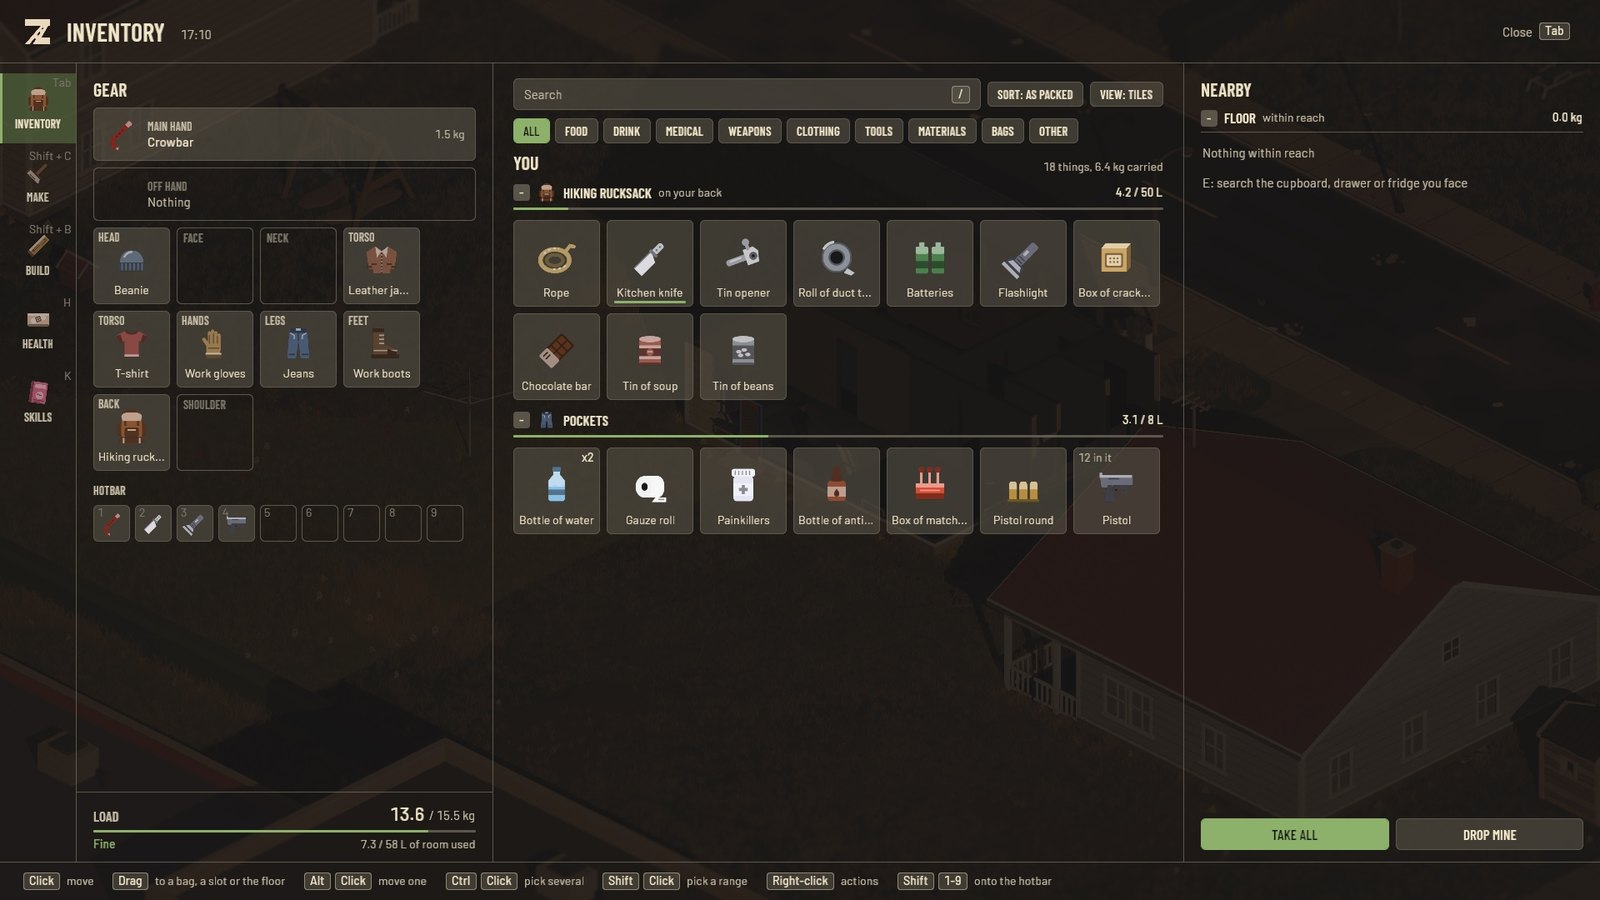
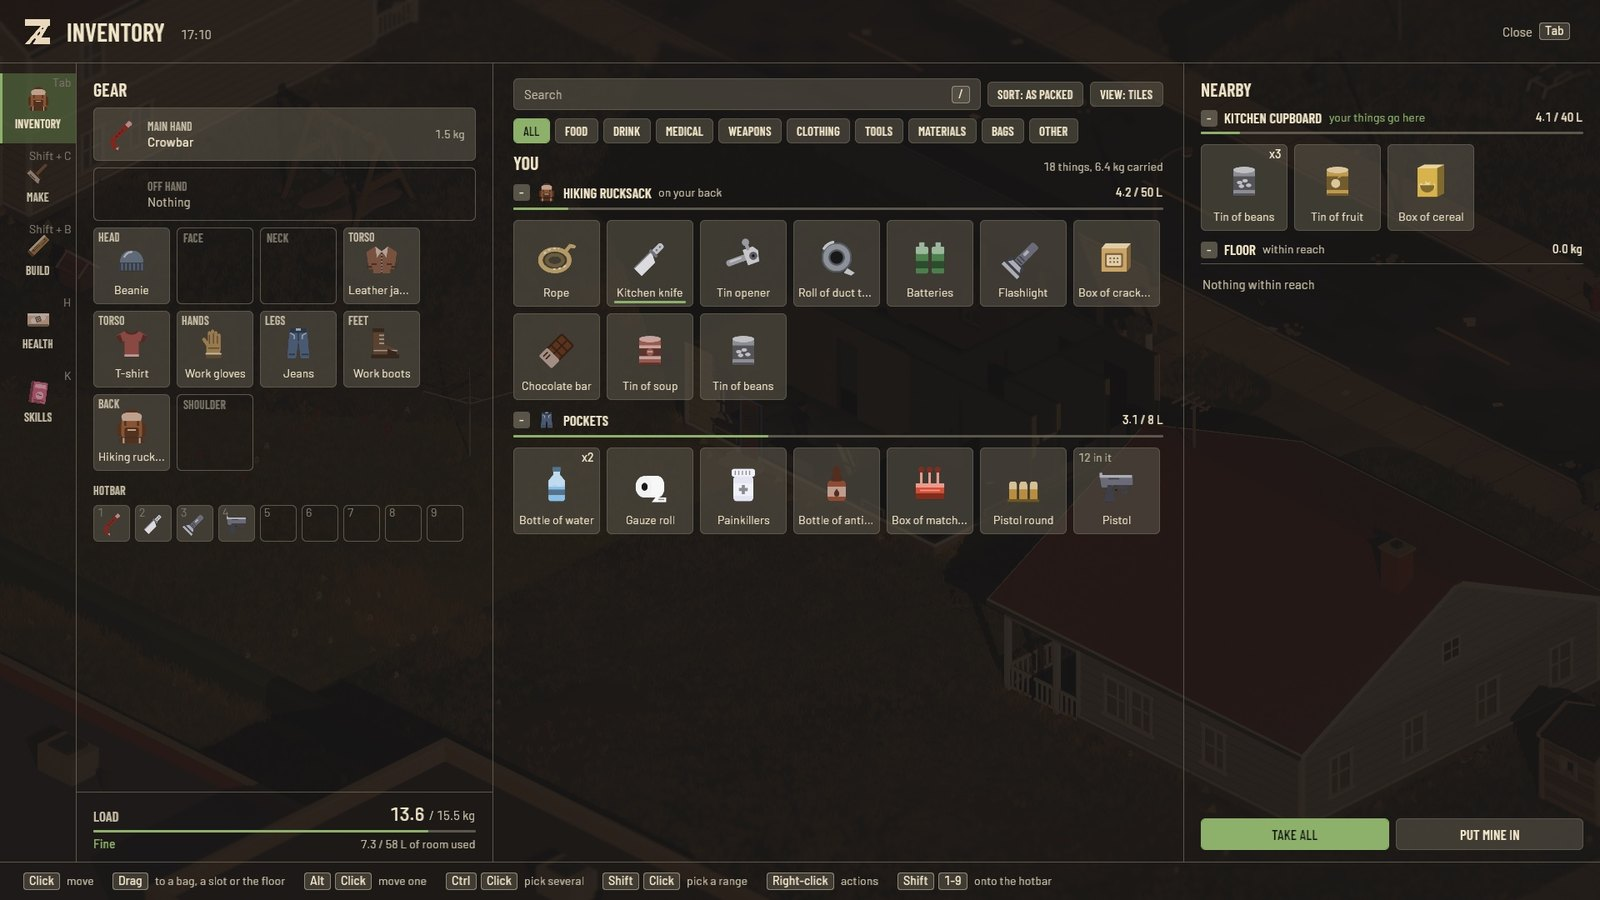
README: a driving shot, and the inventory with a container open
Assisted-by: Claude (Anthropic)
Claude-Session: https://claude.ai/code/session_01FnUZUY5Pb9iGLeh51PEL1E

diff --git a/README.md b/README.md
@@ -111,7 +111,12 @@ is free.
 </table>
 
 <p align="center">
-  <a href="docs/readme/inventory.jpg"><img src="docs/readme/inventory.jpg" alt="The inventory screen: a crowbar in hand, worn gear, a packed rucksack and pockets" width="860"></a>
+  <a href="docs/readme/drive.jpg"><img src="docs/readme/drive.jpg" alt="A car drives through a junction as zombies close in from the pavements and the park" width="860"></a>
+  <br><i>The parked cars start, if they have fuel. The engine is heard a long way off.</i>
+</p>
+
+<p align="center">
+  <a href="docs/readme/inventory.jpg"><img src="docs/readme/inventory.jpg" alt="The inventory screen: a crowbar in hand, worn gear, a packed rucksack, and a kitchen cupboard being searched" width="860"></a>
   <br><i>Everything you carry has weight and takes up room. Choose what comes with you.</i>
 </p>
 
